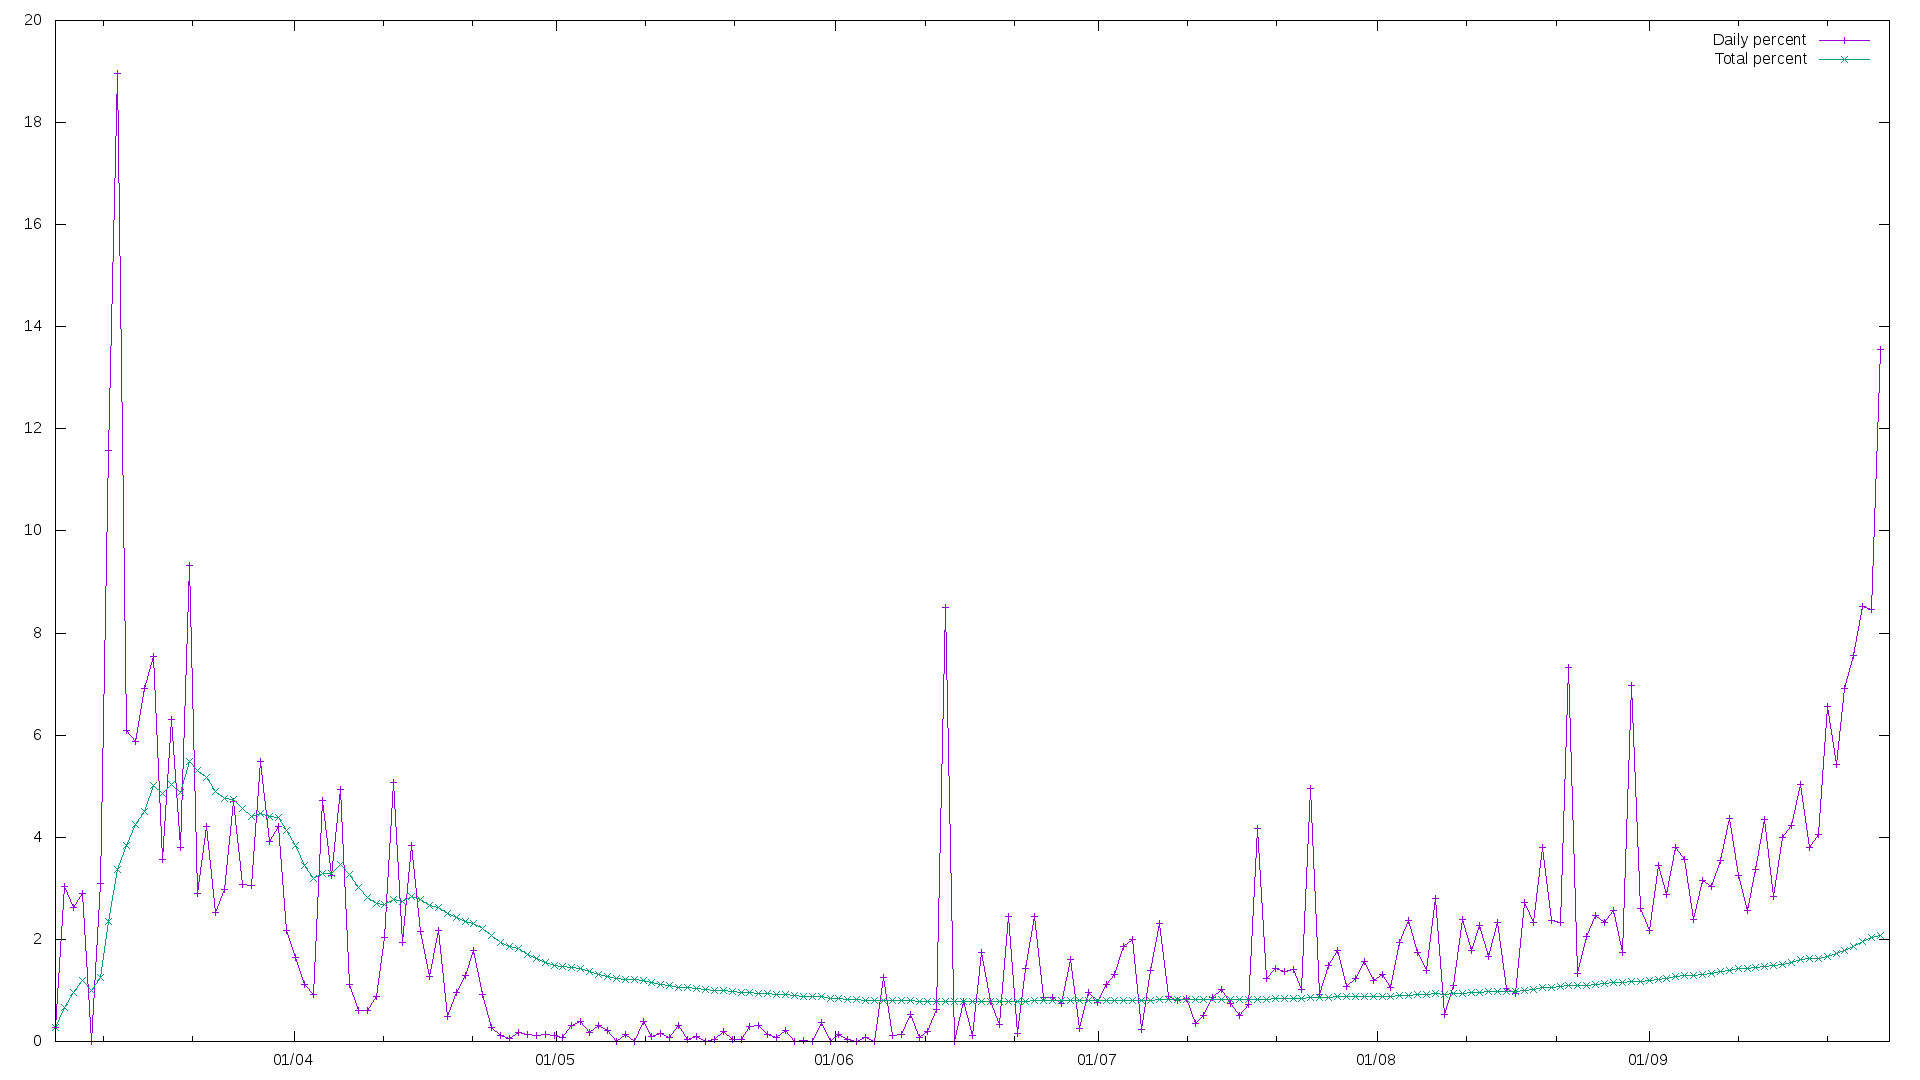
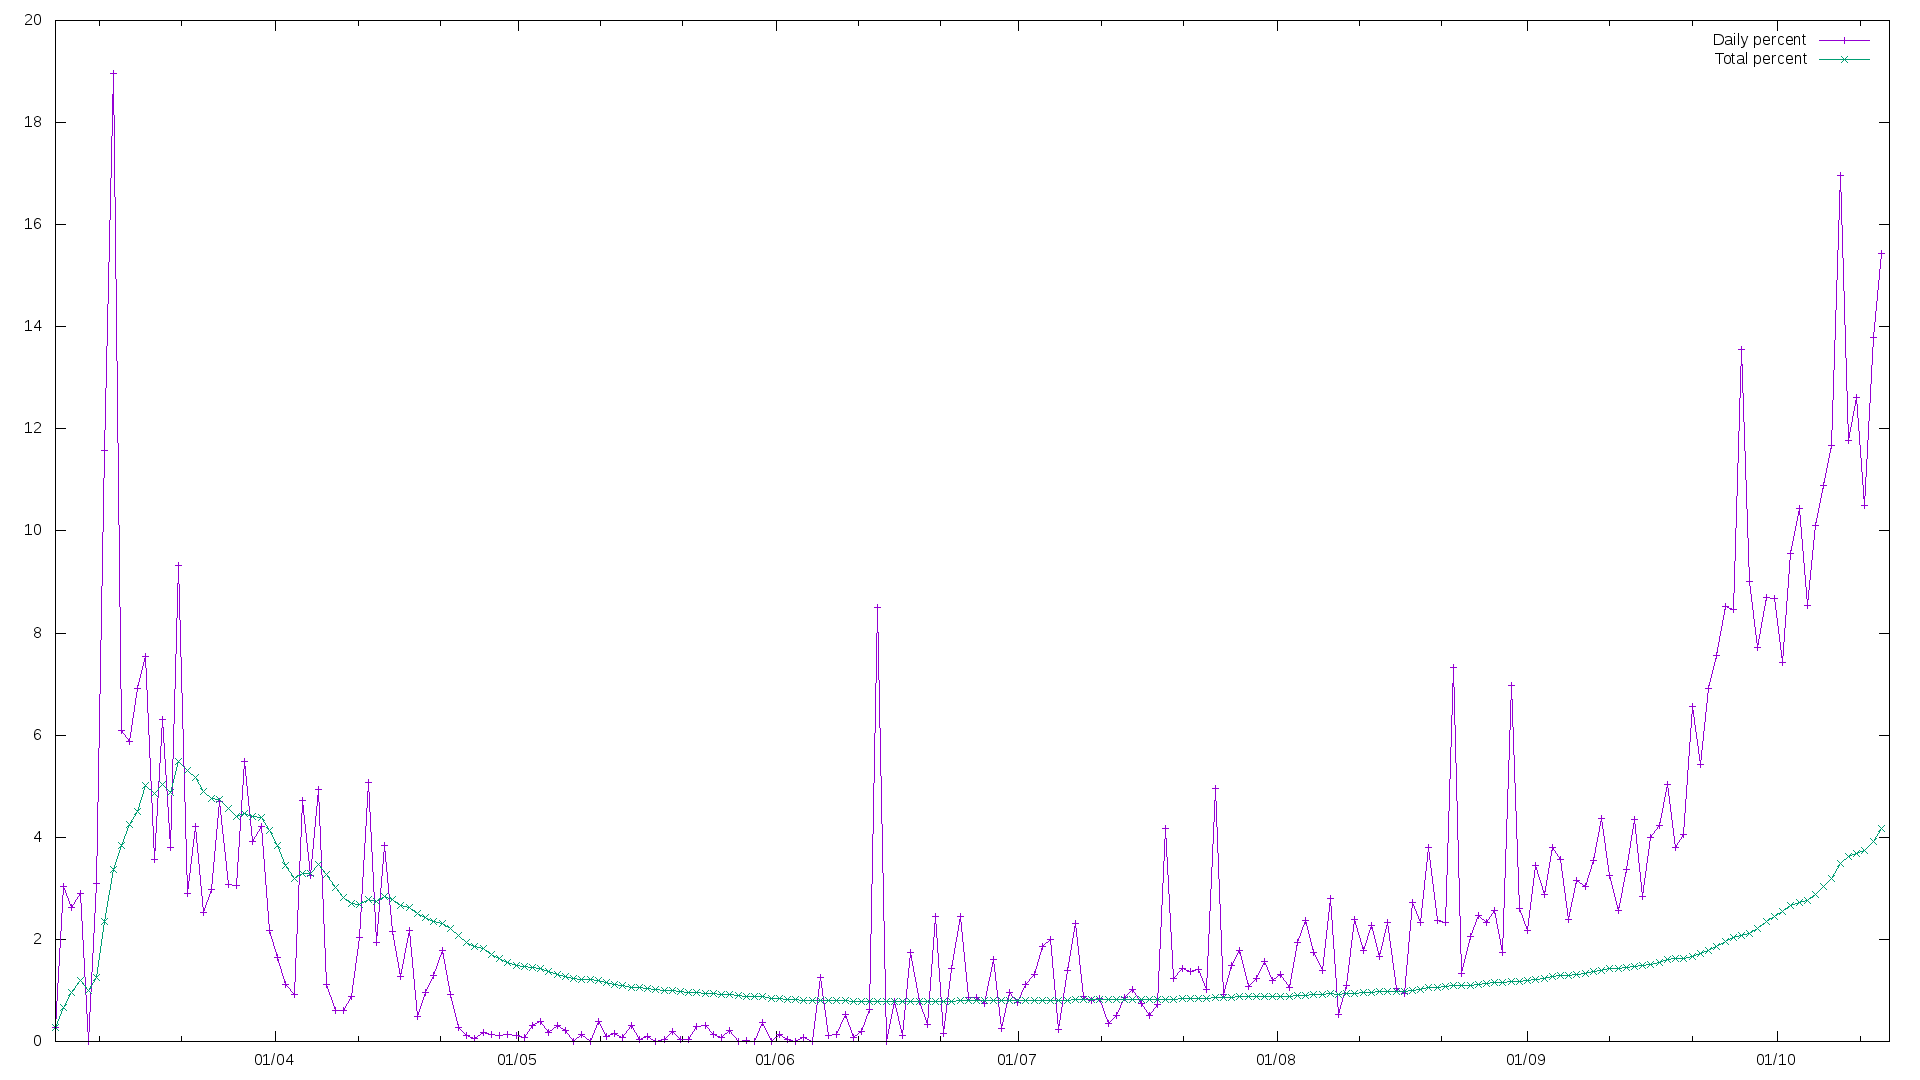
Updated example chart

diff --git a/README.md b/README.md
@@ -1,6 +1,6 @@
 # Korona - percento
 
-![Example output chart from 28 September](chart.png)
+![Example output chart from 15 October](chart.png)
 
 (For English scroll down)
 
